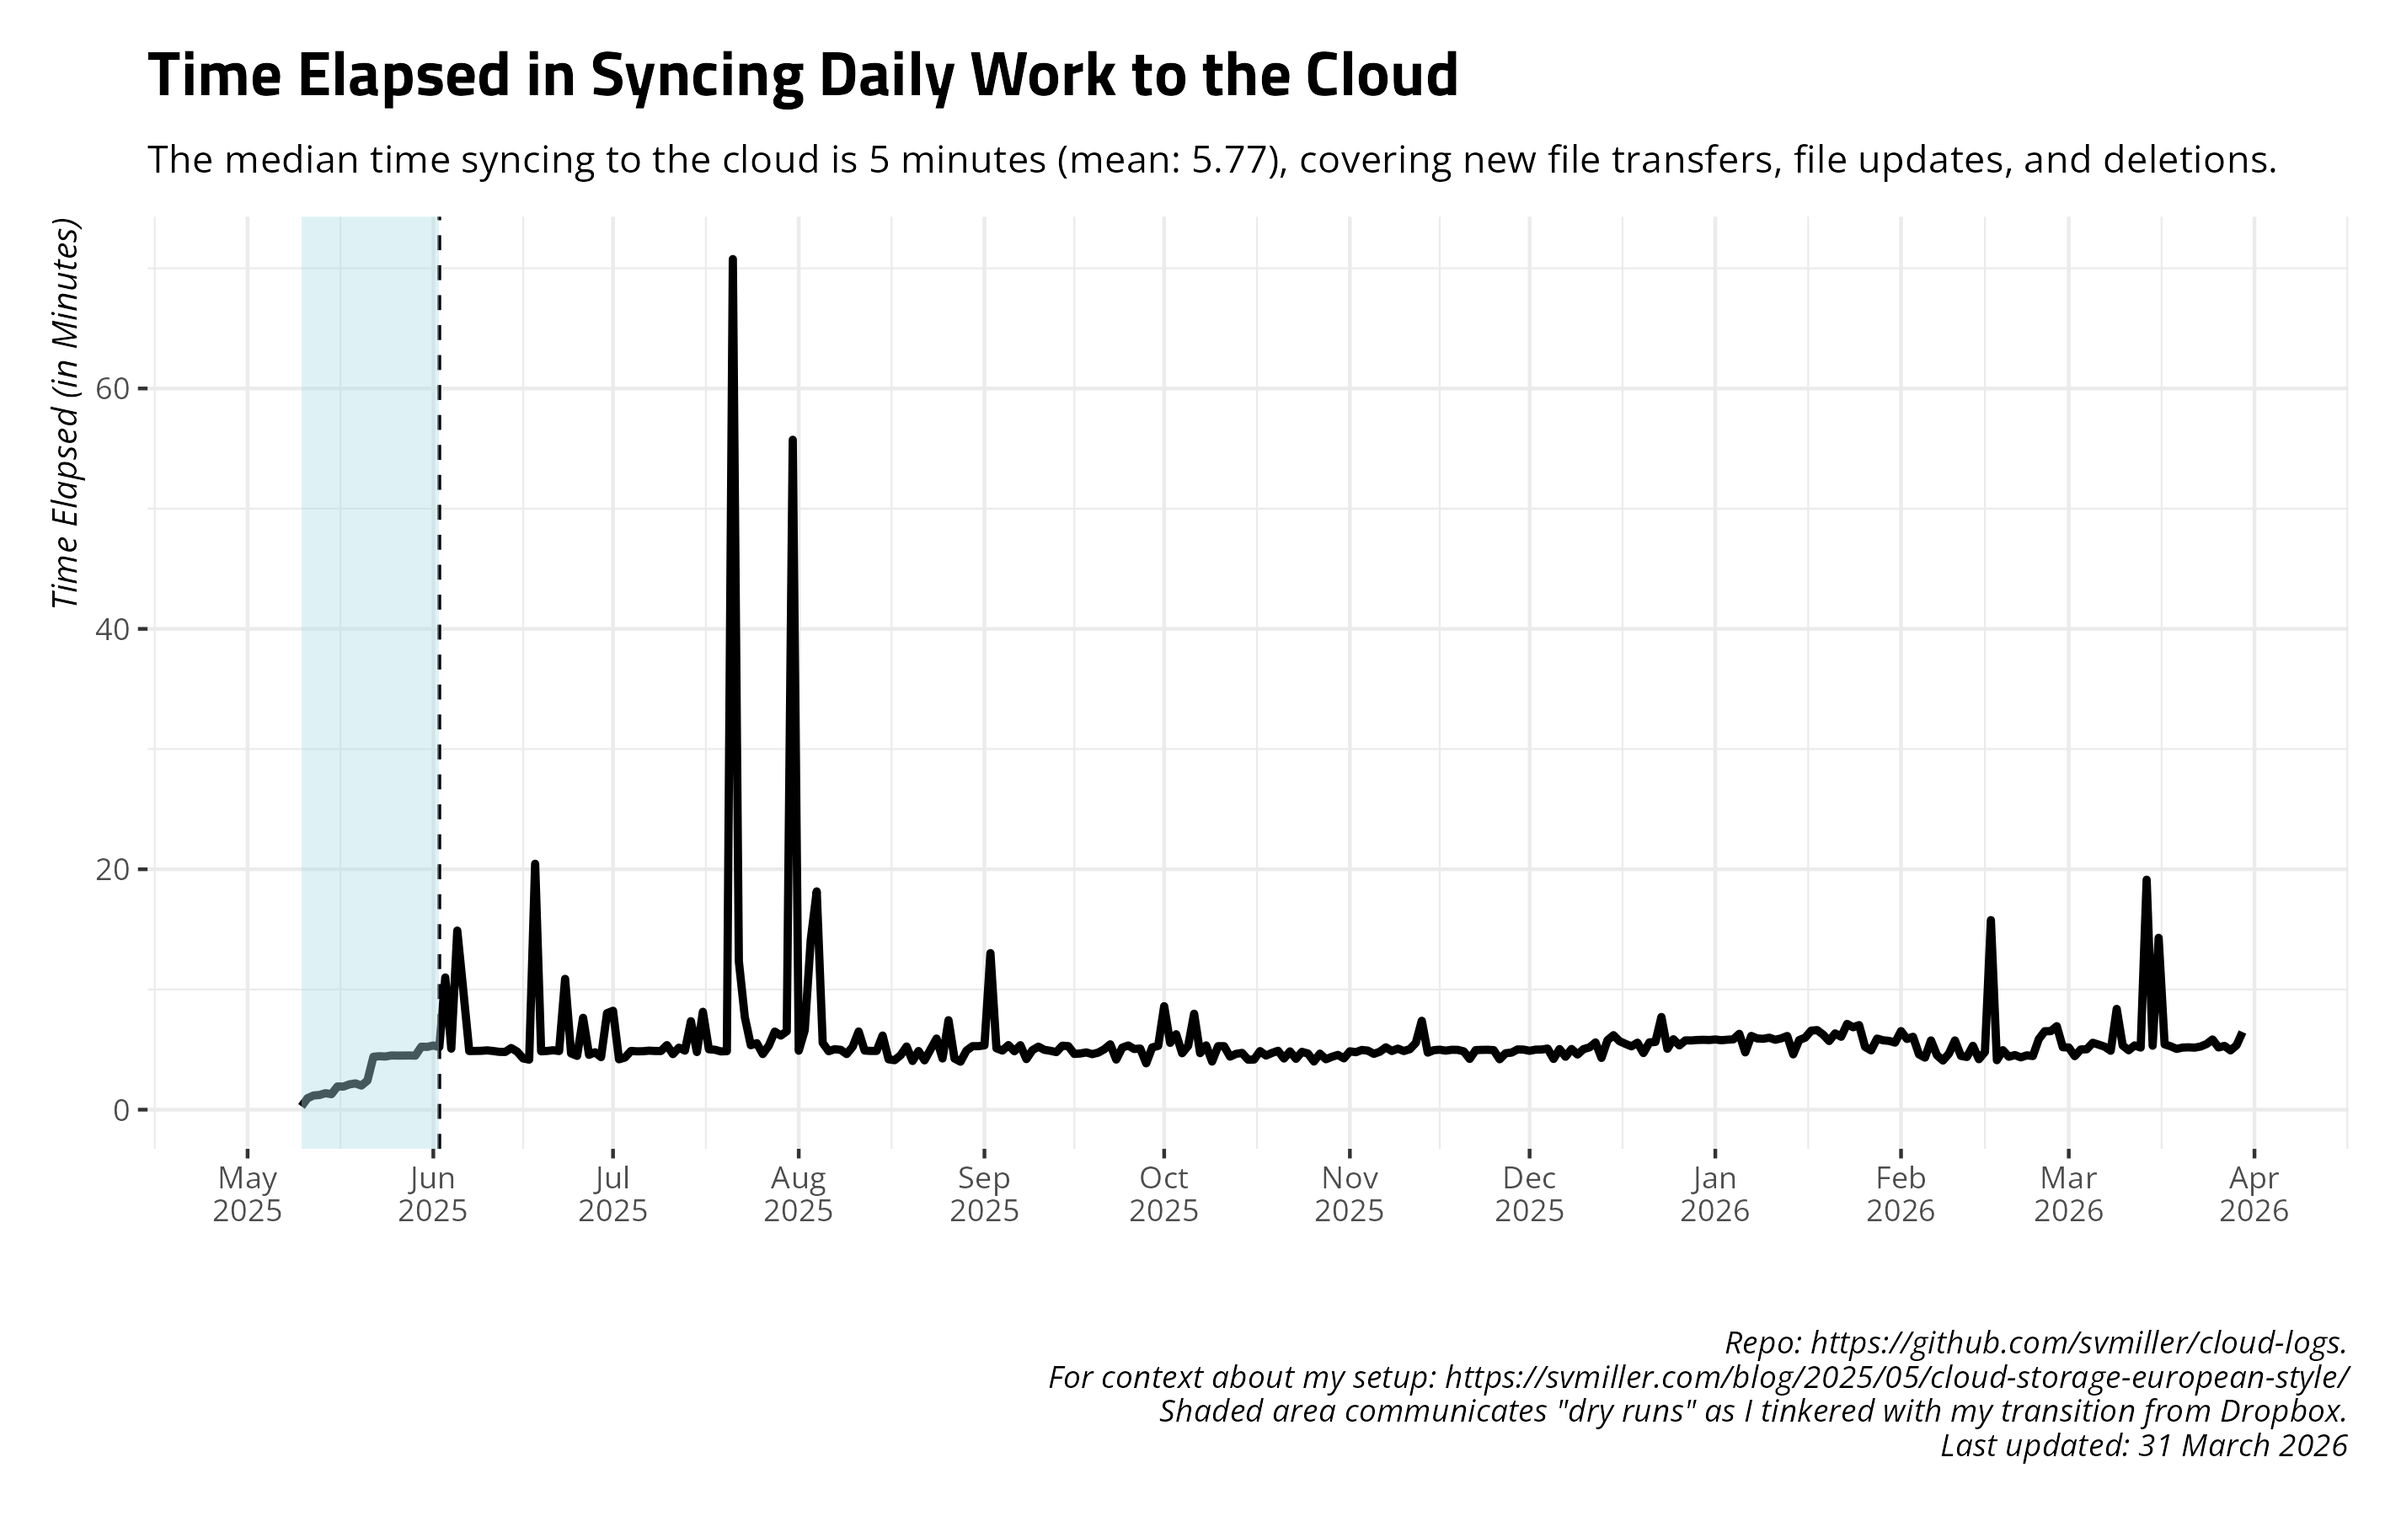
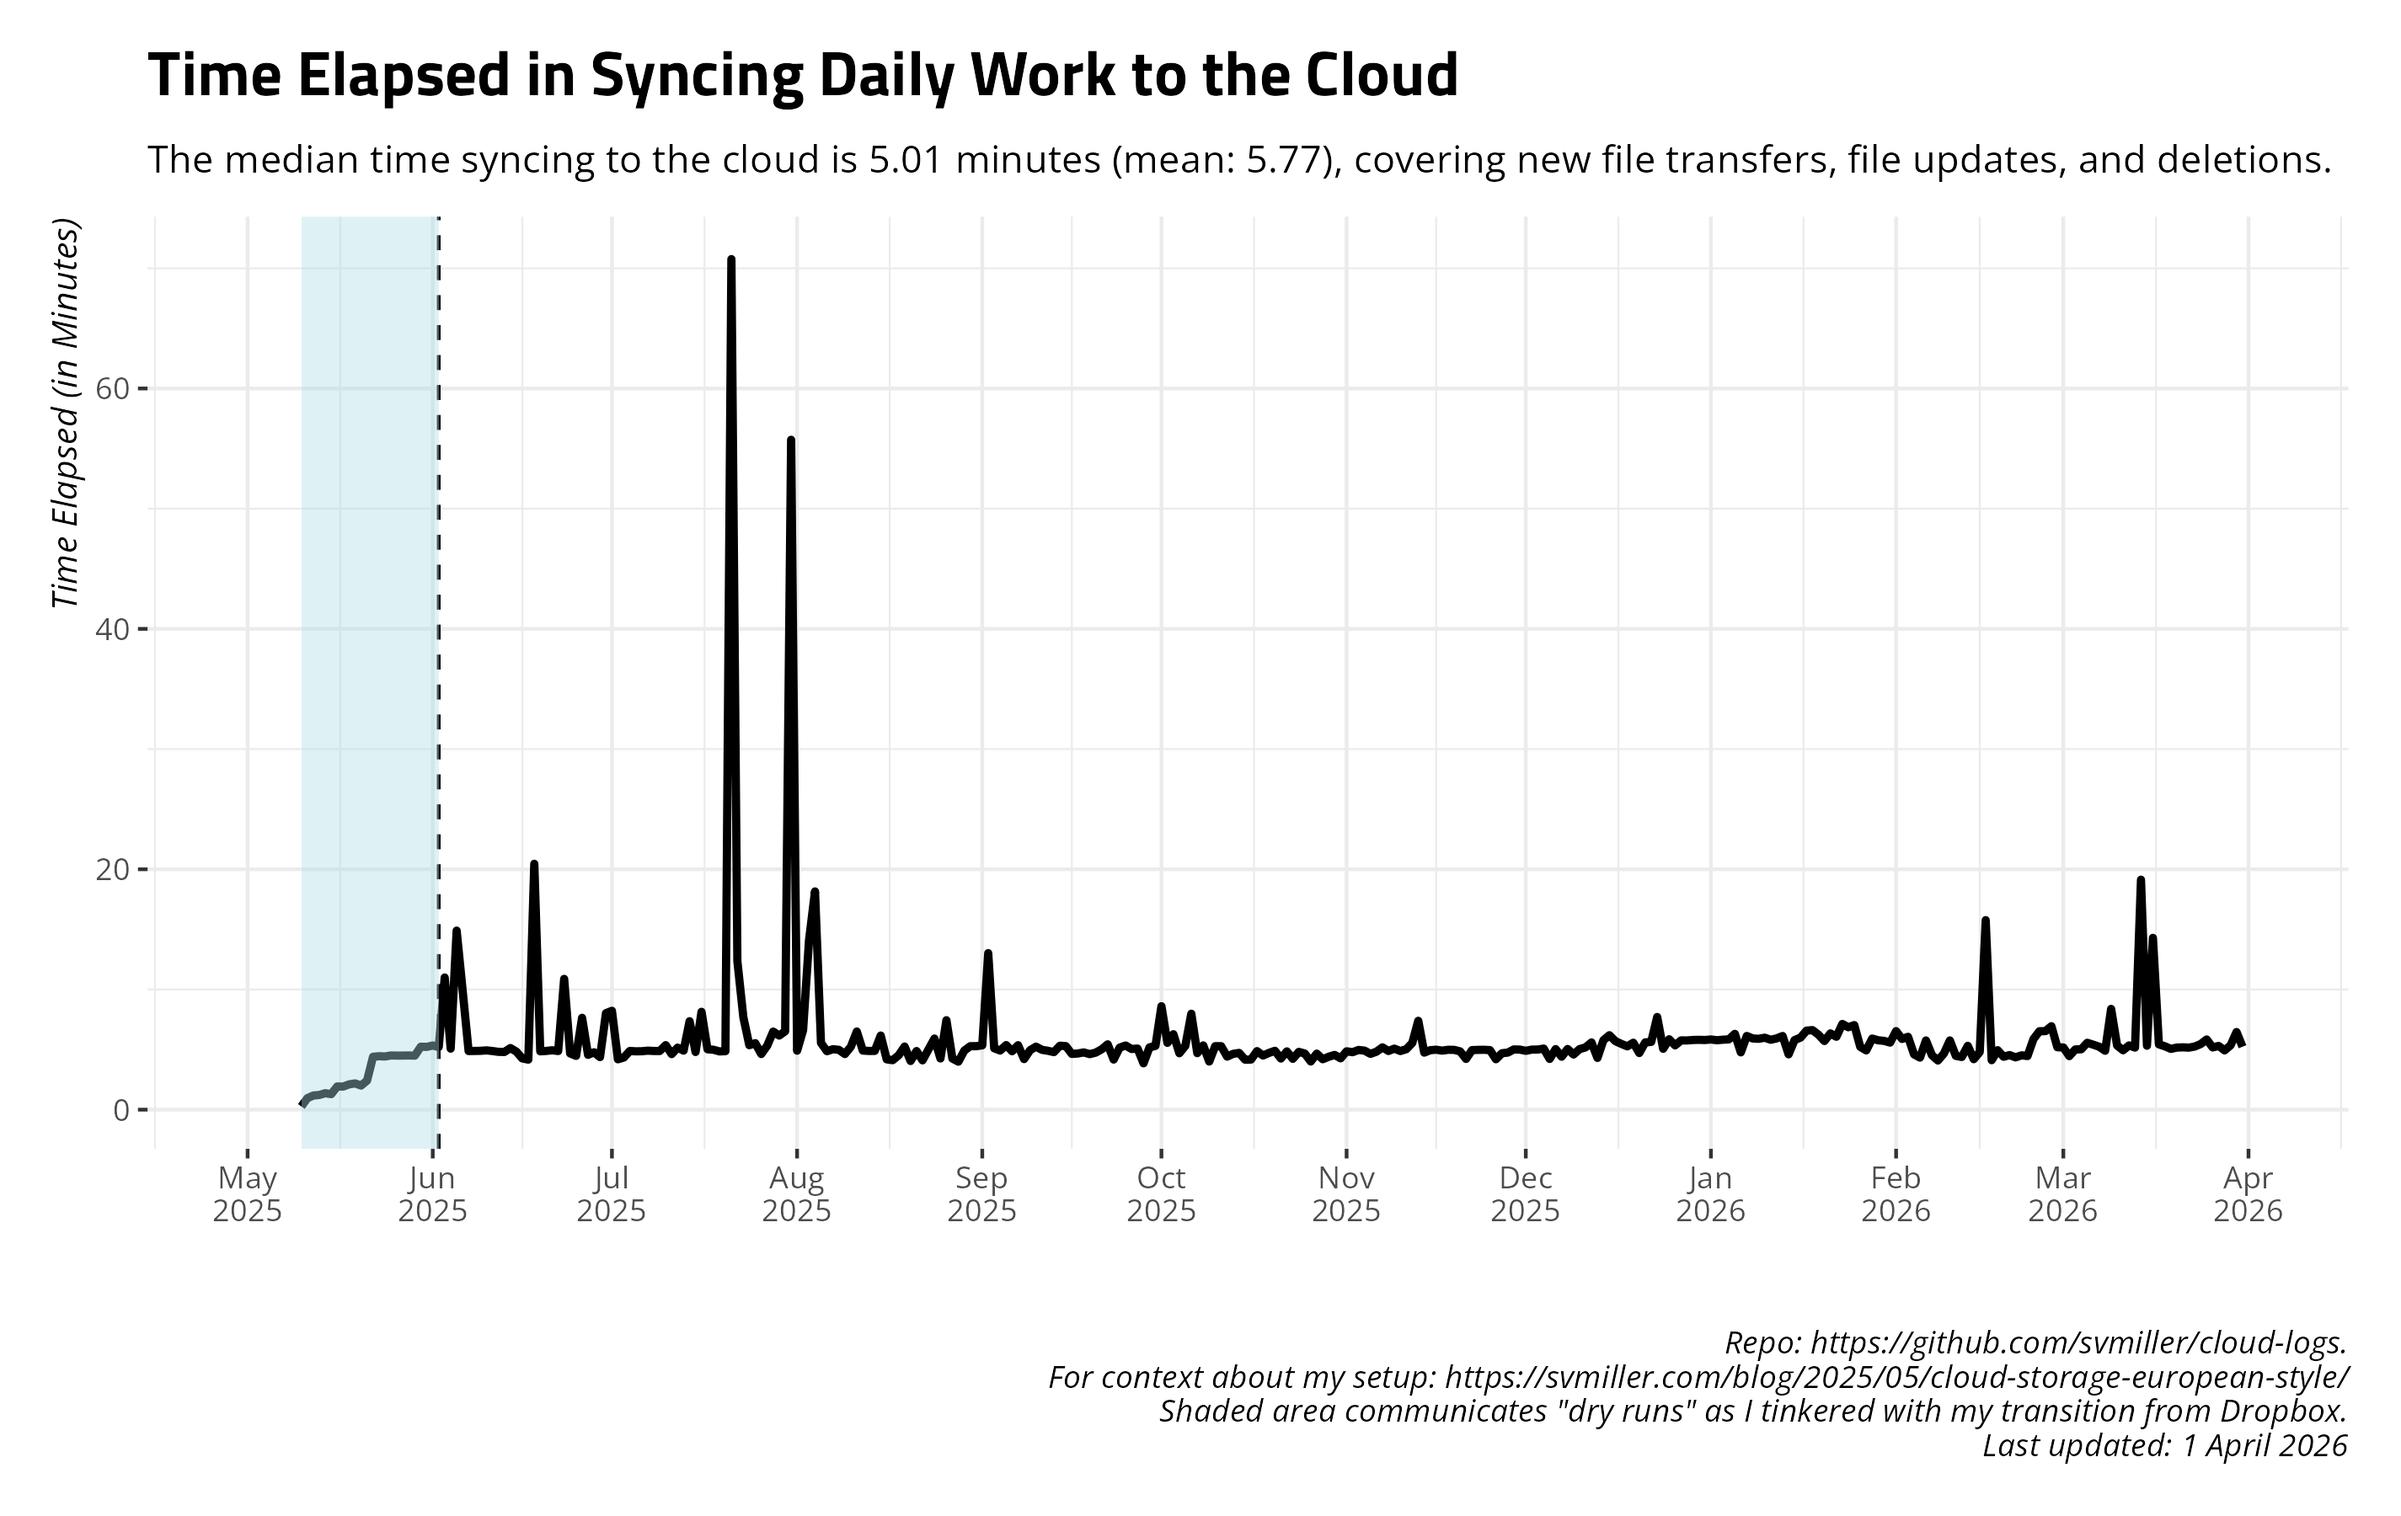
Date: 2026-04-01 09:00:25. Hi mom!

diff --git a/README.md b/README.md
@@ -27,17 +27,17 @@ and uploads to Github.
     #> # A tibble: 14 × 4
     #>    date       ftransfer stransfer   elapsed
     #>    <date>         <dbl> <chr>       <chr>  
-    #>  1 2026-03-17         7 145.749 KiB 5m26.0s
-    #>  2 2026-03-18         3 30.764 MiB  5m16.3s
-    #>  3 2026-03-19        70 1.489 MiB   5m3.4s 
-    #>  4 2026-03-20         9 298.045 KiB 5m9.9s 
-    #>  5 2026-03-21         0 <NA>        5m11.1s
-    #>  6 2026-03-22         4 84.136 KiB  5m9.6s 
-    #>  7 2026-03-23         4 6.955 MiB   5m15.1s
-    #>  8 2026-03-24       111 1.884 MiB   5m27.6s
-    #>  9 2026-03-25       389 508.602 MiB 5m50.4s
-    #> 10 2026-03-26         4 85.605 KiB  5m10.6s
-    #> 11 2026-03-27        23 10.112 MiB  5m18.2s
-    #> 12 2026-03-28        24 134.979 KiB 4m55.9s
-    #> 13 2026-03-29         0 <NA>        5m21.2s
-    #> 14 2026-03-30       872 5.770 GiB   6m27.5s
+    #>  1 2026-03-18         3 30.764 MiB  5m16.3s
+    #>  2 2026-03-19        70 1.489 MiB   5m3.4s 
+    #>  3 2026-03-20         9 298.045 KiB 5m9.9s 
+    #>  4 2026-03-21         0 <NA>        5m11.1s
+    #>  5 2026-03-22         4 84.136 KiB  5m9.6s 
+    #>  6 2026-03-23         4 6.955 MiB   5m15.1s
+    #>  7 2026-03-24       111 1.884 MiB   5m27.6s
+    #>  8 2026-03-25       389 508.602 MiB 5m50.4s
+    #>  9 2026-03-26         4 85.605 KiB  5m10.6s
+    #> 10 2026-03-27        23 10.112 MiB  5m18.2s
+    #> 11 2026-03-28        24 134.979 KiB 4m55.9s
+    #> 12 2026-03-29         0 <NA>        5m21.2s
+    #> 13 2026-03-30       872 5.770 GiB   6m27.5s
+    #> 14 2026-03-31         2 21.604 KiB  5m14.1s
